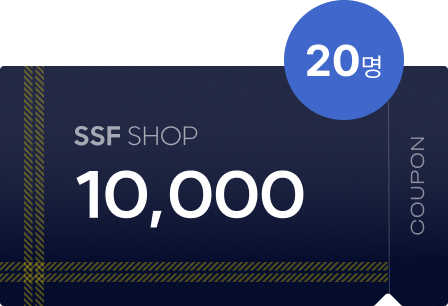
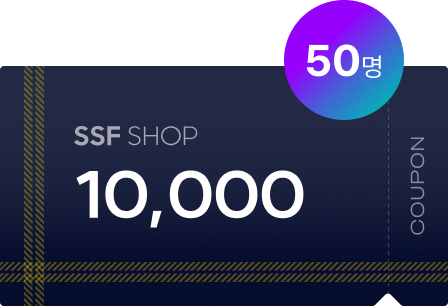
d

Changed region(s): [[0.625, 0.0, 0.9062, 0.4118], [0.8438, 0.8235, 1.0, 0.9412]]

diff --git a/SSF/mobile_index_a.html b/SSF/mobile_index_a.html
@@ -72,14 +72,14 @@
           <img src="static/images/a/a_1_7.png" alt="" class="img-5" data-aos="fade-up" data-aos-duration="500" data-aos-delay="200">
         </li>
       </ul>
-      <div class="img-wrap" data-aos="fade-up" data-aos-duration="500" data-aos-delay="100">
+      <div class="img-wrap coupon" data-aos="fade-up" data-aos-duration="500" data-aos-delay="100">
         <div class="swiper-wrap" style="padding-top:8px;padding-bottom:32px;">
           <div class="review-swiper2">
             <div class="swiper-wrapper">
               <div class="swiper-slide">
                 <div class="box">
                   <span>
-                    <img src="static/images/a/a_1_9.png">
+                    <img src="static/images/a/a_1_8.png">
                   </span>
                 </div>
               </div>

diff --git a/SSF/static/css/style.css b/SSF/static/css/style.css
@@ -244,6 +244,25 @@ button {
 .ssf .img-wrap .swiper-wrap [data-event="slickToGo"].a .img-2 {
   display: block;
 }
+
+.ssf .img-wrap.coupon {
+  width: calc(100% + 48px);
+  margin-left: -24px;
+  position: relative;
+}
+
+.ssf .img-wrap.coupon .review-swiper2 {
+  padding-left: 48px;
+}
+
+.ssf .img-wrap.coupon .swiper-slide .box span {
+  width: 100%;
+}
+
+.ssf .img-wrap.coupon .swiper-slide .box span img {
+  width: 100%;
+}
+
 .review-swiper {
   width: calc(100% + 48px);
   margin: 20px 0 20px -24px;

diff --git a/SSF/static/js/front.js b/SSF/static/js/front.js
@@ -40,7 +40,7 @@ if (window.console == undefined) { console = { log: () => { } } }
 			})
 
 			var reviewAtype2 = new Swiper(".review-swiper2", {
-        slidesPerView: 1.15,
+        slidesPerView: 1.218,
 				slidesPerGroup: 1,
 				spaceBetween: 18,
 				simulateTouch: true,
